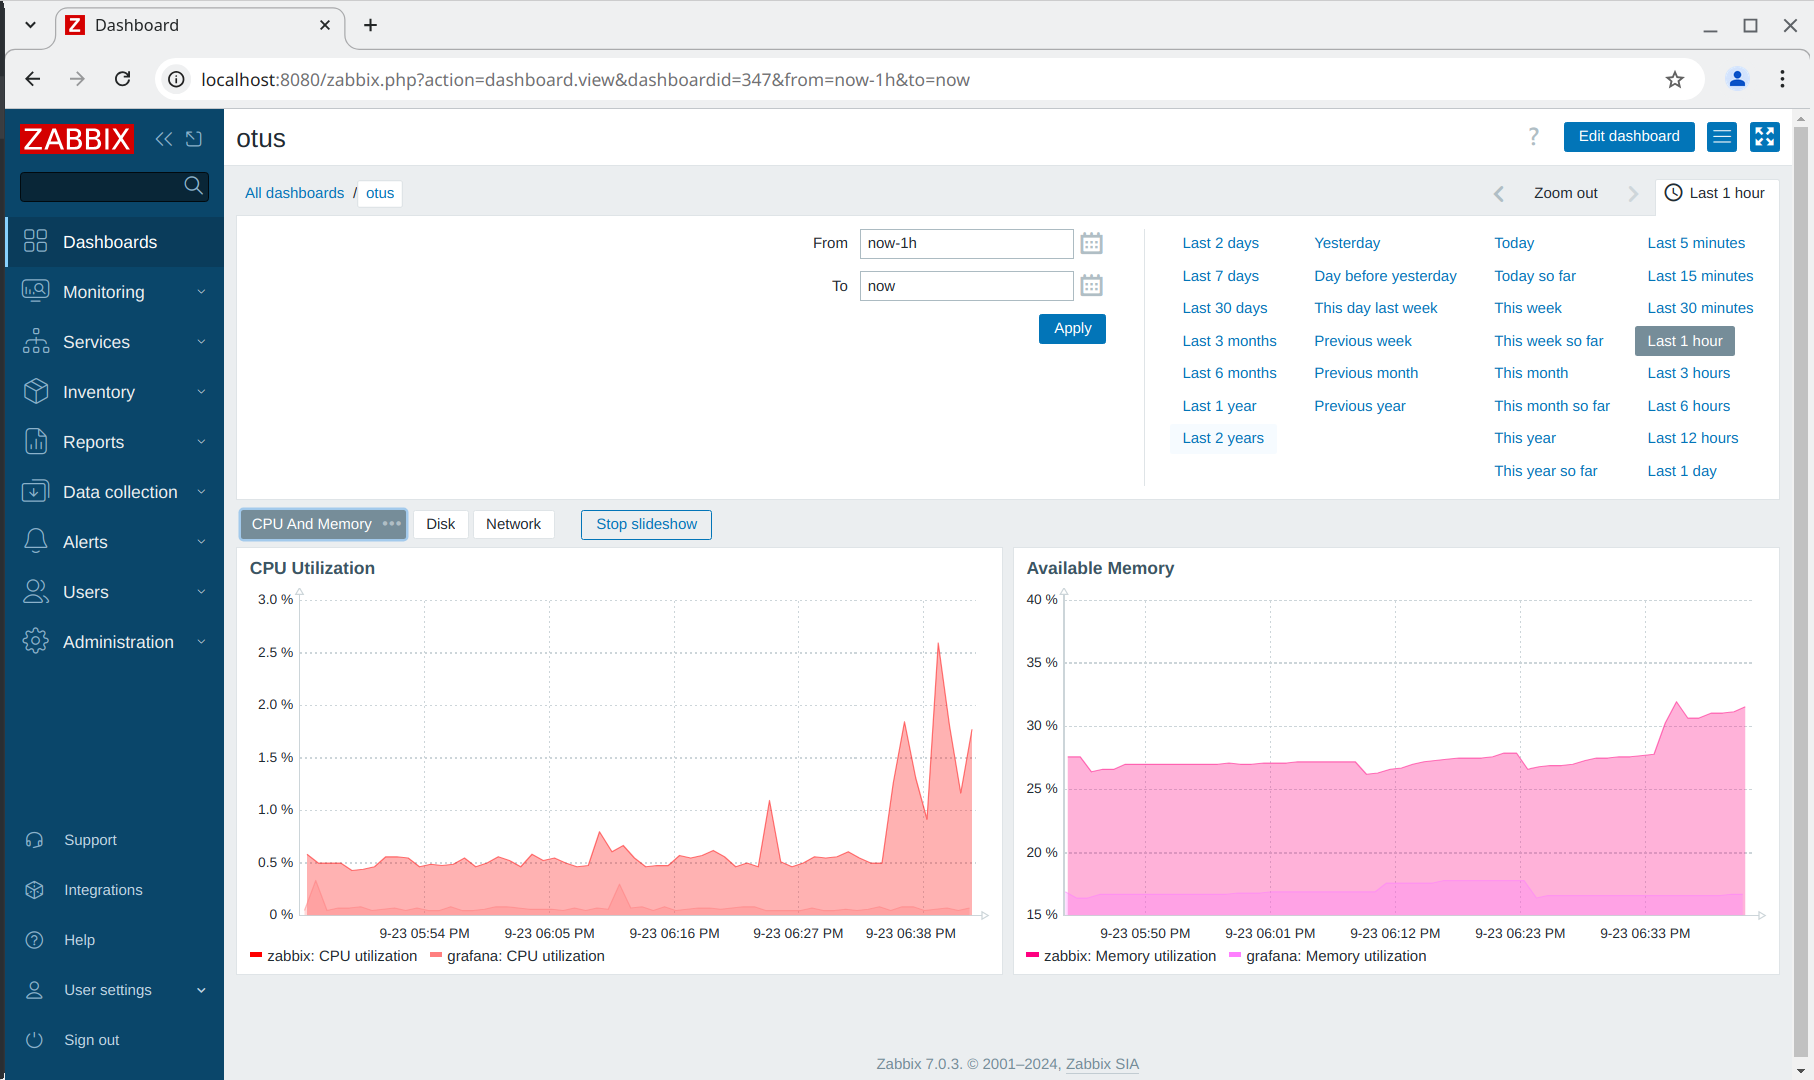
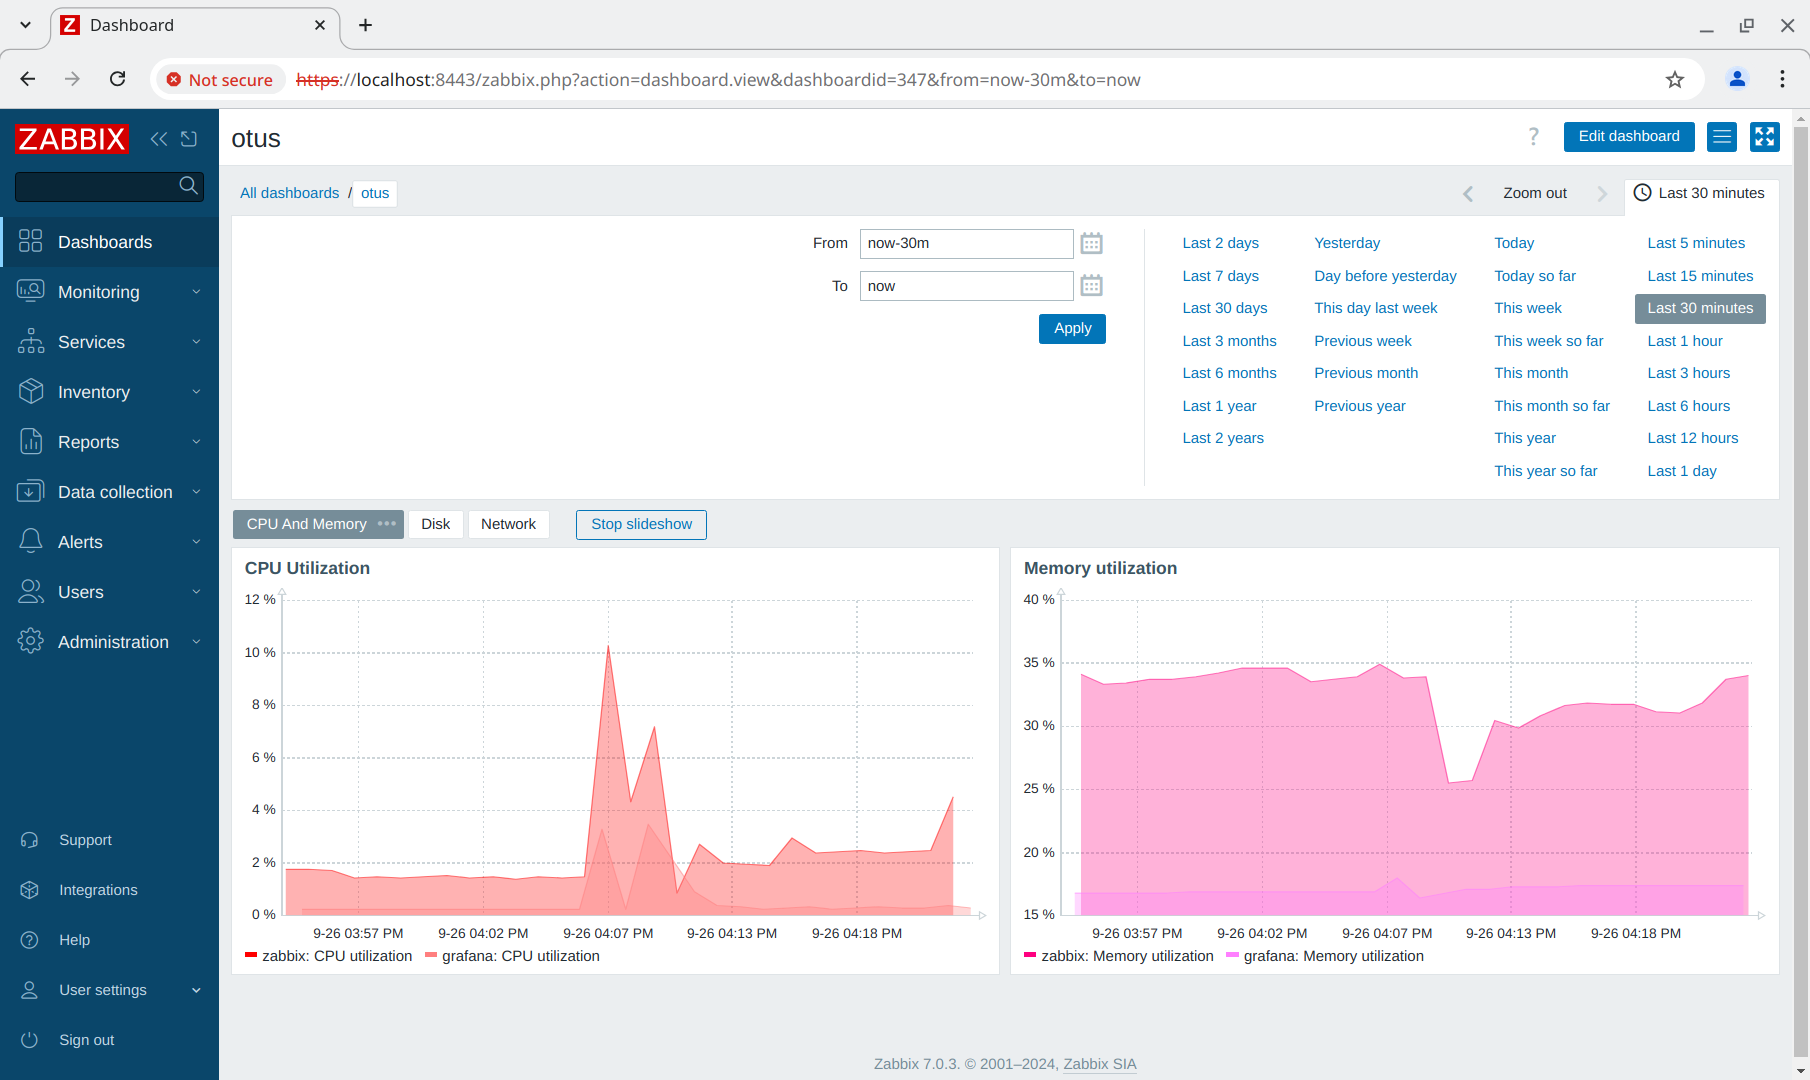
Аутентификации zabbix-server и zabbix-agent по TLS сертификатам

diff --git a/README.md b/README.md
@@ -13,10 +13,12 @@
 
 Задание сделано на **almalinux/9** версии **v9.4.20240805**. Для автоматизации процесса написаны следующие роли **Ansible**, поднимающие **Zabbix 7** в порядке их выполнения:
 
+- **tls_ca** - генерит корневой сертификат, который используется для подписи всех остальных сертификатов;
+- **tls_cert** - генерит сертификаты для узлов **zabbix** и **grafana** с нужным **Subject Alternative Name**
 - **epel_release** - устанавливает репозиторий **Extra Packages for Enterprise Linux** для расширенных пакетов, исключая из него пакеты с **zabbix** (они почему-то не работают в **AlmaLinux** с ошибкой [cannot set list of PSK ciphersuites](https://www.zabbix.com/forum/zabbix-troubleshooting-and-problems/435752-cannot-set-list-of-psk-ciphersuites-file-ssl_lib-c-line-1383-no-cipher-match));
 - **zabbix_release** - устанавливает официальные репозитории **Zabbix** для **AlmaLinux**;
 - **node_exporter** - устанавливает **Prometheus Node Exporter**;
-- **zabbix_agent2** - устанавилвает и настраивает **Zabbix Agent 2** (фактически в конфиге прописывается только **Server**, **ServerActive** и **Hostname** из переменных **zabbix_server_ip** и **zabbix_hostname** в [all.yml](group_vars/all.yml))
+- **zabbix_agent2** - устанавилвает и настраивает **Zabbix Agent 2** (фактически в конфиге прописывается только **Server**, **ServerActive** и **Hostname** из переменных **zabbix_server_ip** и **zabbix_hostname** в [all.yml](group_vars/all.yml)), а также устанавливает сертификаты и параметры для подключения к серверу и его аутентификации;
 - **zabbix_server** - поднимает **Zabbix Server 7**:
   - ставит и настраивает **zabbix**, **postgresql**, **nginx**;
   - настраивает **SELinux**, включая политики **httpd_can_connect_zabbix** и **httpd_can_network_connect_db**;
@@ -25,7 +27,7 @@
   - настраивает **zabbix-server**, создавая конфигурационные файлы [zabbix_server.conf](roles/zabbix_server/templates/zabbix_server.conf) для сервера и [zabbix.conf.php](roles/zabbix_server/templates/zabbix.conf.php) для веб-интерфейса;
   - настраивает **nginx** и запускает его и **php-fpm**;
   - удаляет `Zabbix server` из **Hosts** в базе данных **zabbix** (через его **API**) и генерит токен для подключения к серверу через **API**, токен сохраняется в `passwords/zabbix_token.txt`;
-- **zabbix_inventory** - добавляет узлы **zabbix** и **grafana** в группы **Zabbix servers** и **Linux servers** узлов **Zabbix**, назначает на них шаблоны **Zabbix server health** и **Linux by Zabbix agent**.
+- **zabbix_inventory** - добавляет узлы **zabbix** и **grafana** в группы **Zabbix servers** и **Linux servers** узлов **Zabbix**, назначает на них шаблоны **Zabbix server health** и **Linux by Zabbix agent** и параметры аутентификации агентов сервером.
 - **zabbix_dashboards** - через **Zabbix API** создаёт **Dashboard** с именем **otus** с 3-мя вкладками **CPU And Memory**. **Disk**, **Network** из шаблона [otus](roles/zabbix_dashboards/templates/otus.yml).
 
 ## Запуск
@@ -57,11 +59,15 @@ ansible-galaxy collection install --upgrade community.zabbix
 
 ## Проверка
 
-1. Заходим на [localhost:8080](http://localhost:8080/index.php), вводим имя пользователя **otus** и пароль из файла `passwords/zabbix_admin.txt`.
-2. Переходим в [Dashboards](http://localhost:8080/zabbix.php?action=dashboard.list) и выбираем [otus](http://localhost:8080/zabbix.php?action=dashboard.view&dashboardid=347).
+1. Заходим на [localhost:8443](http://localhost:8443/index.php), вводим имя пользователя **otus** и пароль из файла `passwords/zabbix_admin.txt`.
+2. Переходим в [Dashboards](http://localhost:8443/zabbix.php?action=dashboard.list) и выбираем [otus](http://localhost:8443/zabbix.php?action=dashboard.view&dashboardid=347).
 3. Для того, чтобы на всех графиках появились данные необходимо подождать 10 минут, пока отработают **Discovery rules**.
 4. Наблюдаем графики:
 
-  ![процессор и память](images/zabbix_cpu.png)
-  ![диск](images/zabbix_disk.png)
-  ![сеть](images/zabbix_network.png)
+    ![процессор и память](images/zabbix_cpu.png)
+    ![диск](images/zabbix_disk.png)
+    ![сеть](images/zabbix_network.png)
+
+5. На вкладке [Hosts](https://localhost:8443/zabbix.php?action=host.view) можно увидеть, что агенты подключились к серверу и для подключения используется **TLS**:
+
+    ![шифрование](images/zabbix_encryption.png)
